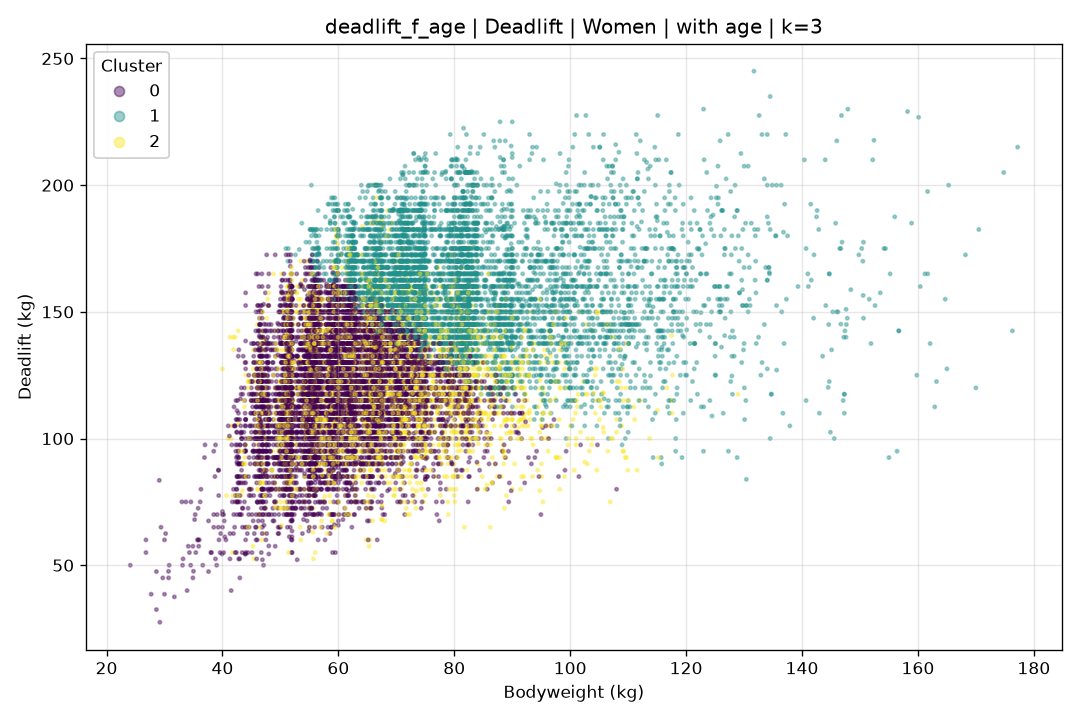
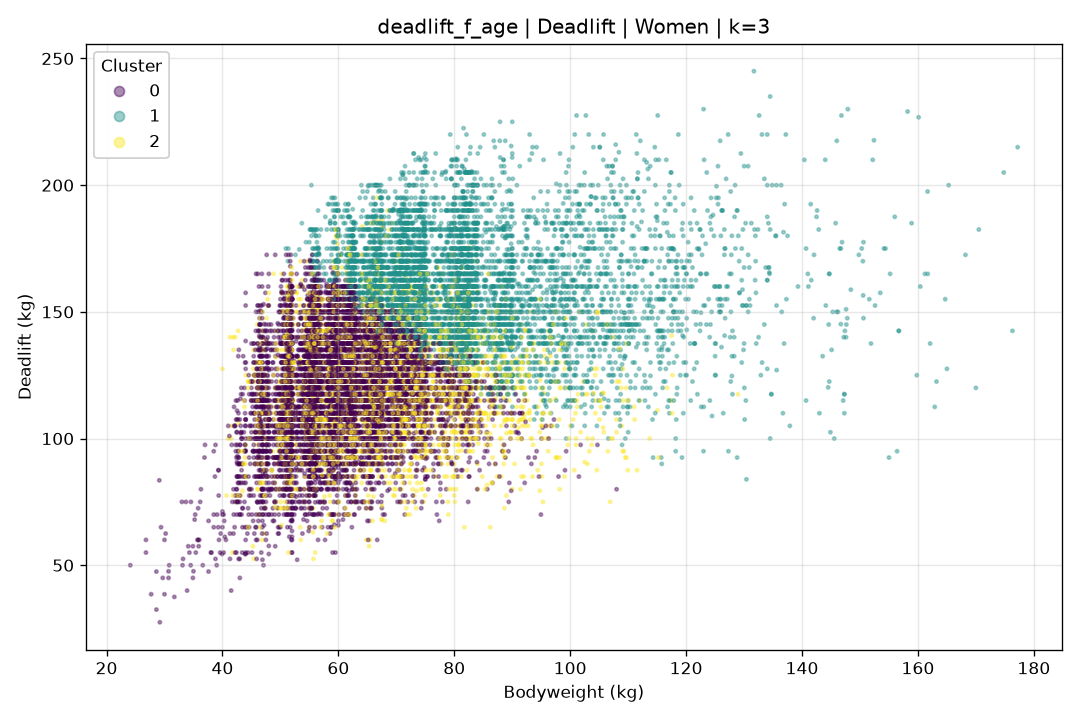
Rename agent file, update plots to 8 models, fix imports

Changed region(s): [[0.3056, 0.0306, 0.7639, 0.0611]]

diff --git a/cluster_model/cluster_scatter_plots.py b/cluster_model/cluster_scatter_plots.py
@@ -36,7 +36,6 @@ for key in all_cluster_models:
     table = all_cluster_models[key]['table']
     lift_column = all_cluster_models[key]['lift_column']
     sex = all_cluster_models[key]['sex']
-    include_age = all_cluster_models[key]['include_age']
     k = all_cluster_models[key]['k']
 
     #דגימה אקראית לציור בלבד . אם הטבלה קטנה מהמדגם לוקחים הכל
@@ -47,7 +46,6 @@ for key in all_cluster_models:
 
     #כותרת בעברית
     sex_heb = 'Men' if sex == 'M' else 'Women'
-    age_heb = 'with age' if include_age == 1 else 'no age'
 
     #גרף פיזור - משקל גוף מול הליפט , צבוע לפי קבוצה
     fig, ax = plt.subplots(figsize=(9, 6))
@@ -62,7 +60,7 @@ for key in all_cluster_models:
 
     ax.set_xlabel('Bodyweight (kg)')
     ax.set_ylabel(f'{lift_heb[lift_column]} (kg)')
-    ax.set_title(f'{key} | {lift_heb[lift_column]} | {sex_heb} | {age_heb} | k={k}')
+    ax.set_title(f'{key} | {lift_heb[lift_column]} | {sex_heb} | k={k}')
     ax.grid(True, alpha=0.3)
 
     #מקרא של הקבוצות

diff --git a/front.py b/front.py
@@ -1,6 +1,6 @@
 import streamlit as st
 from datetime import date
-from APIֹ_key import ask_full_agent
+from agent import ask_full_agent
 
 
 #הגדרות עמוד
